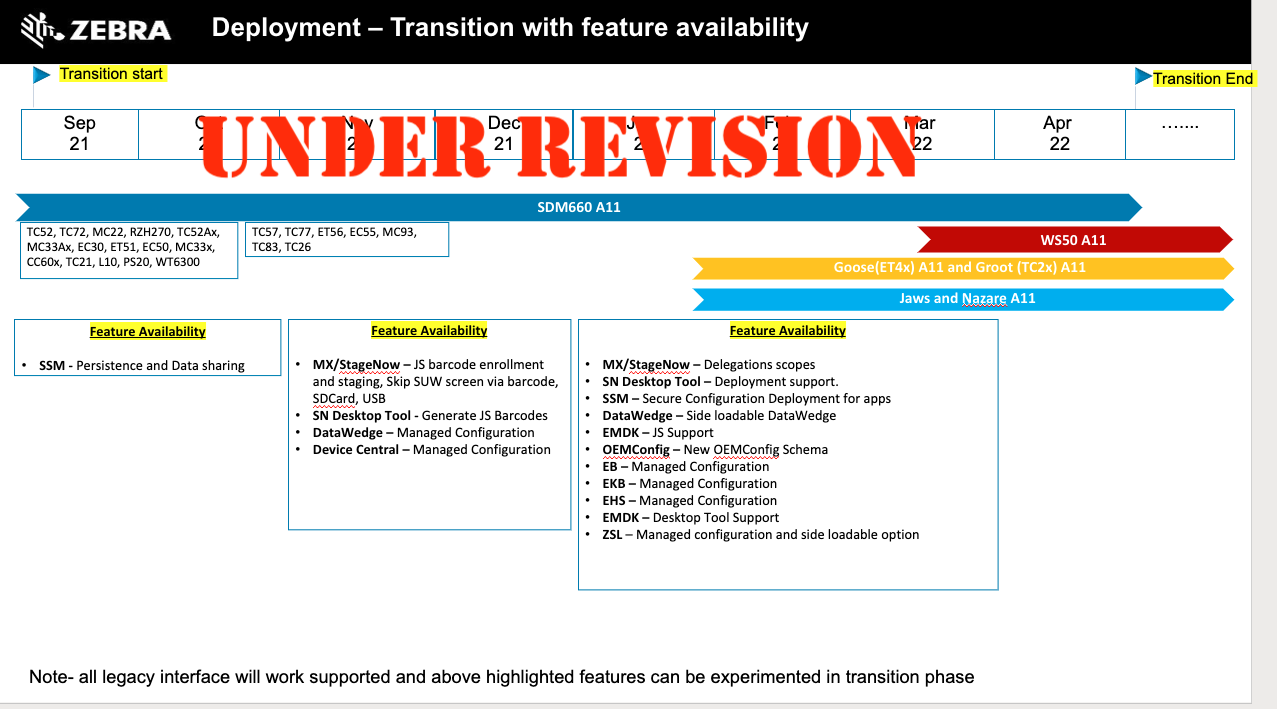
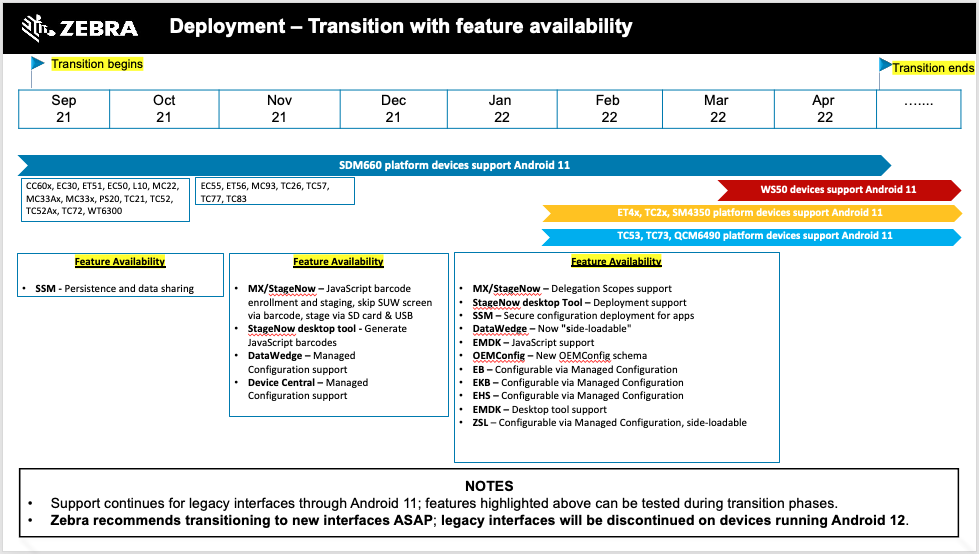
[TUT-57431] MDNA updates

Changed region(s): [[0.0, 0.0, 1.0, 0.7671], [0.0, 0.8285, 0.9806, 1.0], [0.9806, 0.1841, 1.0, 0.2148]]

diff --git a/zdm/about/index.html b/zdm/about/index.html
@@ -10,8 +10,8 @@
     <meta name="author" content="Zebra Technologies">
     <meta name="google-site-verification" content="i4B78BrWnNy8ShJwe5feRW3jO3HE6gfYlYqYbxfl8yY">
     <meta name="msvalidate.01" content="6B651B00161BCE79B8950AC09D5C4C75">
-    <meta title="About MX Transition">
-    <title>About MX Transition - TechDocs</title>
+    <meta title="About MDNA 3 Transition">
+    <title>About MDNA 3 Transition - TechDocs</title>
     <!-- core CSS -->
     <link href="/css/bootstrap.min.css" rel="stylesheet">
     <link href="/css/font-awesome.min.css" rel="stylesheet">
@@ -116,7 +116,7 @@
                     <nav id="toc" data-toggle="toc" data-spy="affix" style="height: 75%; max-width: 225px; overflow-y: auto; ">
                         
                         <ul class="nav">
-                            <li><strong>About MX Transition</strong></li>
+                            <li><strong>About MDNA 3 Transition</strong></li>
                         </ul>
                     </nav>
                     <div class="modal fade" id="modal-smartdocs" tabindex="-1" role="dialog" aria-labelledby="basicModal" aria-hidden="true" data-backdrop="true">
@@ -202,7 +202,7 @@
                         <div class="col-sm-12">
                             <section id="cta" class="wow fadeIn">
                                 <div class="">
-                                    <h1 id="about-mx-transition" class="anchor"><a class="heading-anchor" href="#about-mx-transition"><span></span></a>About MX Transition</h1>
+                                    <h1 id="about-mdna-3-transition" class="anchor"><a class="heading-anchor" href="#about-mdna-3-transition"><span></span></a>About MDNA 3 Transition</h1>
                                     <p>
                                     </p>
                                 </div>
@@ -216,49 +216,33 @@
                                 <div class="service-box wow fadeInRight">
                                     <div class="">
 
-                                        <p></p><h4 id="seeuwhatsnewinmdnamdnauvideos" class="anchor"><a class="heading-anchor" href="#seeuwhatsnewinmdnamdnauvideos"><span></span></a>See <u><a href="/mdna">What's New in MDNA</a></u> (videos)</h4>
+                                        <p><!-- 
+#### See <u>[What's New in MDNA](/mdna)</u> (videos)
+ -->
 
-<h2 id="overview" class="anchor"><a class="heading-anchor" href="#overview"><span></span></a>Overview</h2>
+</p><h2 id="overview" class="anchor"><a class="heading-anchor" href="#overview"><span></span></a>Overview</h2>
 
-<p><strong>In accordance with Google-mandated enhancements to Android device security and data privacy, the Zebra device architecture is undergoing a major transformation</strong>. Zebra engineers are working hard to make many of the changes transparent, but actions might be required for some customers and partners either now or in the near future, particularly for data persistence and for apps that share and/or use shared data. </p>
+<p><strong>In accordance with Google-mandated enhancements to Android device security and data privacy, the Zebra device architecture is undergoing a major transformation</strong>. Zebra engineers are working hard to make many of the changes transparent, but actions will be required for most customers and partners either now or in the near future, particularly for data persistence and for apps that share and/or use shared data. </p>
 
 <p><strong>Zebra is going beyond Google's mandates</strong>. In addition to implementing the security-related changes Google requires of devices running Android 11 and later, Zebra is taking the opportunity to build new solutions to help simplify deployment of devices and apps across an enterprise, and to transition away from proprietary frameworks in favor of public specifications. These platform changes will help Zebra to speed up development time when adding value to the platform in the future.</p>
 
 <h4 id="notetodevelopersemms" class="anchor"><a class="heading-anchor" href="#notetodevelopersemms"><span></span></a>Note to Developers, EMMs</h4>
 
-<p><strong>The use of XML for configuring Zebra device and app settings is being phased out</strong>, to be replaced by JavaScript. Zebra has selected Android 11 as the "transitional" OS version. Zebra devices running Android 11 will accept either XML or JavaScript for device configuration. This is intended to allow organizations to continue using current methods while gradually converting to the new staging methods being introduced. </p>
-
-<blockquote>
-  <p><strong>Zebra devices running Android 12 will NOT accept XML for staging</strong>. </p>
-</blockquote>
+<p><strong>The use of XML for configuring Zebra device and app settings is being phased out</strong>, to be replaced by JavaScript. Zebra has selected Android 11 as the "transitional" OS version. Zebra devices running Android 11 will accept either XML or JavaScript for device configuration. This is intended to allow organizations to continue using current methods while gradually converting to the new staging methods being introduced. <strong>Zebra devices running Android 12 will NOT accept XML for staging</strong>. </p>
 
 <hr>
 
-<h3 id="newservicestoolversions" class="anchor"><a class="heading-anchor" href="#newservicestoolversions"><span></span></a>New Services, Tool Versions</h3>
-
-<p>The following architectural changes are being phased in between now and mid-2022:</p>
-
-<ul>
-<li><strong><a href="/ssm">Secure Storage Manager (SSM)</a> employs Android Content Provider model</strong> for persistence, data storage and data sharing. Use of the <code>/enterprise</code> partition will still be allowed initially, but Zebra strongly recommends switching to SSM as soon as possible. <strong>Available now on devices running Android 11</strong>. </li>
-
-<li><strong><a href="/det">Data Encryption Tool (DET)</a></strong> provides end-to-end encryption for on-device data storage and retrieval. <strong><code>Coming when ???</code></strong></li>
-
-<li><strong><a href="/stagenow">StageNow</a> desktop and client to support Managed Configurations</strong> and JavaScript barcodes for device and app setup. <strong><code>Coming when ???</code></strong></li>
-
-<li><strong><a href="/emdk">EMDK</a> to update Profile Manager</strong> with support for JavaScript-based configuration model. <strong><code>Coming when ???</code></strong></li>
-</ul>
-
-<h3 id="majorchanges" class="anchor"><a class="heading-anchor" href="#majorchanges"><span></span></a>Major Changes</h3>
+<h2 id="majorchanges" class="anchor"><a class="heading-anchor" href="#majorchanges"><span></span></a>Major Changes</h2>
 
 <h4 id="notetableisunderconstruction" class="anchor"><a class="heading-anchor" href="#notetableisunderconstruction"><span></span></a><code>NOTE: TABLE IS UNDER CONSTRUCTION</code></h4>
 
 <table class="faceliftCenter" style="width:100%" border="1" padding="5px">
 <tbody>
   <tr bgcolor="#dce8ef">
-    <th width="23%">Feature</th>
-    <th width="23%">Devices with<br>MX 10.5 or older</th>
-    <th width="23%">Devices with<br>MX 11.x or older</th>
-    <th width="23%">Devices with<br>MX 11.2 through Android 12+</th>
+    <th width="20%">Feature</th>
+    <th width="24%">Devices with<br>MX 10.5 or older</th>
+    <th width="24%">Devices with<br>MX 11.x or older</th>
+    <th width="24%">Devices with<br>MX 11.2 through Android 12+</th>
     <th width="8%">Notes</th>
   </tr>
 
@@ -272,22 +256,22 @@
 <tr>
   <td>Configure Zebra apps</td>
   <td colspan="2">Existing XML-based staging</td>
-  <td>Managed Configurations</td>
+  <td><a href="/oemconfig">Managed Configurations</a></td>
   <td>Notes</td>
 </tr>
 
 <tr>
   <td>Persistence</td>
   <td><code>/enterprise</code> partition</td>
-  <td><code>/enterprise</code> partition or SSM</td>
-  <td><a href="/ssm">SSM</a><br><code>/enterprise</code> partition optional</td>
-  <td><code>/enterprise</code> partition must be enabled separately on A-12 devices</td>
+  <td>• <code>/enterprise</code> partition<br>• <a href="/ssm">Secure Storage Mgr</a></td>
+  <td>• <a href="/ssm">Secure Storage Mgr</a><br>• <code><br>/enterprise</code> partition<br>(optional)</td>
+  <td><code>/enterprise</code> partition enabled manually on A-12 devices</td>
 </tr>
 
 <tr>
   <td>App data sharing</td>
-  <td>Intent extras</td>
-  <td>Intent extras or Android Content Provider</td>
+  <td><a href="/mx/intent/#extra-type">Intent Extras</a></td>
+  <td>• <a href="/mx/intent/#extra-type">Intent Extras</a><br>• <a href="../faq/#whatistheandroidcontentprovidermodel">Android Content Provider</a></td>
   <td>Android Content Provider</td>
   <td>Notes</td>
 </tr>
@@ -295,9 +279,9 @@
 <tr>
   <td>File sharing</td>
   <td><code>/enterprise</code> partition</td>
-  <td><code>/enterprise</code> partition or <a href="/ssm">SSM</a></td>
-  <td><a href="/ssm">SSM</a></td>
-  <td><code>/enterprise</code> partition must be enabled separately on A-12 devices</td>
+  <td>• <code>/enterprise</code> partition<br>• <a href="/ssm">Secure Storage Mgr</a></td>
+  <td>• <a href="/ssm">Secure Storage Mgr</a><br>• <code><br>/enterprise</code> partition<br>(optional)</td>
+  <td><code>/enterprise</code> partition enabled manually on A-12 devices</td>
 </tr>
 
 <tr>
@@ -342,6 +326,29 @@ MX spreadsheet:
 
  -->
 
+<h3 id="transitiontimeline" class="anchor"><a class="heading-anchor" href="#transitiontimeline"><span></span></a>Transition Timeline</h3>
+
+<p><img alt="image" style="height:500px" src="mx_transition_roadmap.png">
+<em>Click image to enlarge; ESC to exit.</em></p>
+
+<hr>
+
+<h3 id="newservicestoolversions" class="anchor"><a class="heading-anchor" href="#newservicestoolversions"><span></span></a>New Services, Tool Versions</h3>
+
+<p>The following architectural changes are being phased in between now and mid-2022:</p>
+
+<ul>
+<li><strong><a href="/ssm">Secure Storage Manager (SSM)</a> employs Android Content Provider model</strong> for persistence, data storage and data sharing. Use of the <code>/enterprise</code> partition will still be allowed initially, but Zebra strongly recommends switching to SSM as soon as possible. <strong>Available now on devices running Android 11</strong>. </li>
+
+<li><strong><a href="/det">Data Encryption Tool (DET)</a></strong> provides end-to-end encryption for on-device data storage and retrieval. <strong><code>Coming when ???</code></strong></li>
+
+<li><strong><a href="/stagenow">StageNow</a> desktop and client to support Managed Configurations</strong> and JavaScript barcodes for device and app setup. <strong><code>Coming when ???</code></strong></li>
+
+<li><strong><a href="/emdk">EMDK</a> to update Profile Manager</strong> with support for JavaScript-based configuration model. <strong><code>Coming when ???</code></strong></li>
+</ul>
+
+<hr>
+
 <h3 id="majorbenefits" class="anchor"><a class="heading-anchor" href="#majorbenefits"><span></span></a>Major Benefits</h3>
 
 <ul>
@@ -363,13 +370,6 @@ MX spreadsheet:
 
 <li><strong><a href="/emdk">EMDK</a> and <a href="/stagenow">StageNow</a> solutions will continue to support device configuration</strong> using new methods.</li>
 </ul>
-
-<hr>
-
-<h3 id="transitiontimeline" class="anchor"><a class="heading-anchor" href="#transitiontimeline"><span></span></a>Transition Timeline</h3>
-
-<p><img alt="image" style="height:629px" src="mx_transition_roadmap.png">
-<em>Click image to enlarge; ESC to exit.</em></p>
 
 <hr>
 

diff --git a/zdm/faq/index.html b/zdm/faq/index.html
@@ -218,19 +218,19 @@
                                 <div class="service-box wow fadeInRight">
                                     <div class="">
 
-                                        <p></p><h3 id="whatisscopedstorage" class="anchor"><a class="heading-anchor" href="#whatisscopedstorage"><span></span></a>What is Scoped Storage?</h3>
+                                        <p></p><h3 id="whyiszebrachangingitsplatformarchitecture" class="anchor"><a class="heading-anchor" href="#whyiszebrachangingitsplatformarchitecture"><span></span></a>Why is Zebra changing its platform architecture?</h3>
 
-<p><strong>A: **Introduced with Android 10 (API level 29), scoped storage was originally intended to provide more user control over stored files and reduce the clutter that often occurs on external device storage over time</strong>. It limits apps targeting API 29 (and later) to an app-specific device folder and to media types it creates. In practical terms, scoped storage could limit or prevent an app from accessing device folders formerly available, including the <code>/enterprise</code> partition on Zebra devices. Enhancements delivered with Android 11 (API level 30) enforce greater protections on app and user data stored externally. Apps targeting Android 10 (API level 29) can opt out of restrictions imposed by Android 11 by setting a flag in the app's manifest. Apps that target Android 11 ignore this flag. </p>
+<p><strong>A: Zebra is updating its architecture in reaction to requirements by Google to increase device security and data privacy</strong>, but also to modernize its platform and make it less proprietary. Zebra's "Mobility Extensions" (MX) framework was introduced in 2015, and has served reliably to control and configure Zebra's Android devices while helping Zebra customers and partners to avoid the complexities of platform signing. A proprietary system was required then because early versions of Android lacked the ability to interface with many Zebra-device features and peripherals, and very few centralized management systems existed to aid in device deployment across an enterprise. </p>
 
-<p>Learn more from the Android development community about <a href="https://developer.android.com/about/versions/11/privacy">storage changes coming with Android 11</a>. </p>
+<p>Since 2015, Android has seen tremendous growth. Most of the interfaces Zebra first built are now part of the platform, accessible through public, non-proprietary methods such as <a href="https://techdocs.zebra.com/oemconfig/mc/">Android Managed Configurations</a>. This has allowed Zebra to shift its focus to platform innovation, value-added features and faster times to market. One such innovation was to decouple the application layer from the multiple proprietary underlying frameworks such as MX, allowing Zebra to develop its value-added solutions more reliably, in less time and with fewer dependencies. </p>
 
 <hr>
 
-<h3 id="whyiszebrachangingitsplatformarchitecture" class="anchor"><a class="heading-anchor" href="#whyiszebrachangingitsplatformarchitecture"><span></span></a>Why is Zebra changing its platform architecture?</h3>
+<h3 id="whatisscopedstorage" class="anchor"><a class="heading-anchor" href="#whatisscopedstorage"><span></span></a>What is Scoped Storage?</h3>
 
-<p><strong>A: Zebra is changing its architecture in reaction to requirements by Google to increase device security and data privacy</strong>, but also to modernize its platform and make it less proprietary. Zebra's "Mobility Extensions" (MX) framework was introduced in 2015, and has served reliably to control and configure Zebra's Android devices while helping Zebra customers and partners to avoid the complexities of platform signing. A proprietary system was required then because early versions of Android lacked the ability to interface with many Zebra-device features and peripherals, and very few centralized management systems existed to aid in device deployment across an enterprise. </p>
+<p><strong>A: Introduced with Android 10 (API level 29), scoped storage was originally intended to provide more user control over stored files and reduce the clutter that often occurs on external device storage over time</strong>. It limits apps targeting API 29 (and later) to an app-specific device folder and to media types it creates. In practical terms, scoped storage could limit or prevent an app from accessing device folders formerly available, including the <code>/enterprise</code> partition on Zebra devices. Enhancements delivered with Android 11 (API level 30) enforce greater protections on app and user data stored externally. Apps targeting Android 10 (API level 29) can opt out of restrictions imposed by Android 11 by setting a flag in the app's manifest. Apps that target Android 11 ignore this flag. </p>
 
-<p>Since 2015, Android has seen tremendous growth. Most of the interfaces Zebra first built are now part of the platform, accessible through public, non-proprietary methods such as <a href="https://techdocs.zebra.com/oemconfig/mc/">Android Managed Configurations</a>. This has allowed Zebra to shift its focus to platform innovation, value-added features and faster times to market. One such innovation was to decouple the application layer from the multiple proprietary underlying frameworks such as MX, allowing Zebra to develop its value-added solutions more reliably, in less time and with fewer dependencies. </p>
+<p>Learn more from the Android development community about <a href="https://developer.android.com/about/versions/11/privacy">storage changes coming with Android 11</a>. </p>
 
 <hr>
 

diff --git a/zdm/setup/index.html b/zdm/setup/index.html
@@ -249,7 +249,7 @@ _Click to enlarge; ESC to exit._
 
 <li>MC33x</li>
 
-<li>MC33Ax</li>
+<li>MC33ax</li>
 
 <li>PS20</li>
 
